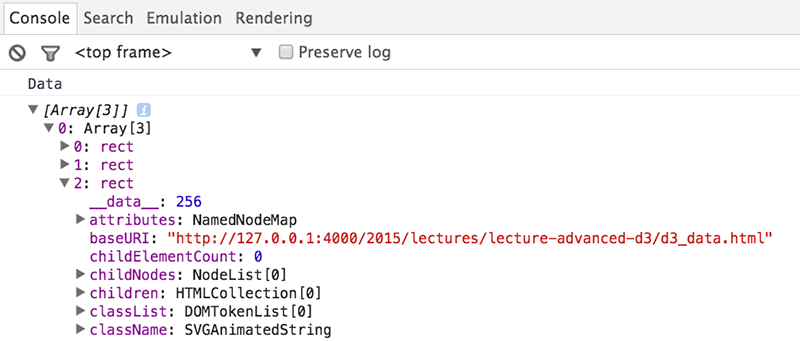
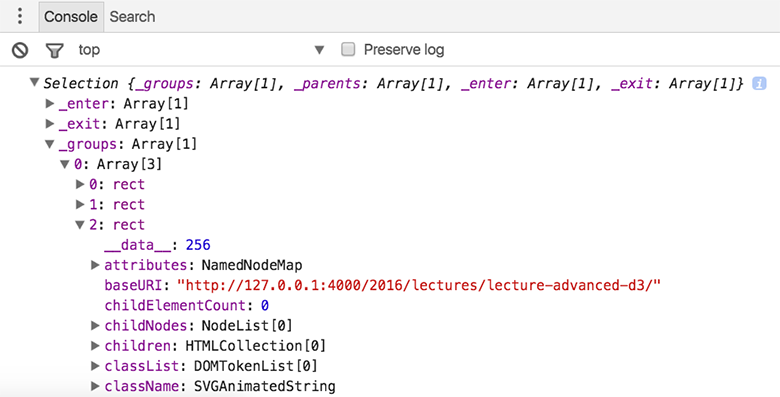
Site updated at 2016-09-05 23:47:37 UTC: 16f53f3 Mon Sep 5 17:44:26 2016 -0600 Alexander: updates to enter/append

Changed region(s): [[0.0, 0.0, 0.9846, 0.9971]]

diff --git a/2016/lectures/lecture-advanced-d3/index.html b/2016/lectures/lecture-advanced-d3/index.html
@@ -184,7 +184,7 @@
                 var previewFrame = document.getElementById('preview-' + id);
                 if (previewFrame) {
                     // here you can set the height, I delete it first, then I make it again
-                    //    previewFrame.height = "";
+                        previewFrame.height = "370px";
                     //  previewFrame.height = previewFrame.contentWindow.document.body.scrollHeight + "px";
 
 
@@ -285,7 +285,7 @@
 
 <h2 id="selections-and-data">Selections and Data</h2>
 
-<p>First, let’s go over how selections and data mapping works again. We talked about the selection methods <code>select()</code> and  <code>selectAll()</code>, that take CSS3 identifiers. That means that we can select on elements - <code>select("svg")</code>, classes - <code>selectAll(".className")</code>, IDs - <code>selectAll("#cancelButton")</code>, but also other selection expression such as parent child relationships - <code>selectAll("p &gt; span")</code>. Here is a simple example:</p>
+<p>First, let’s go over how selections and data mapping works again. We talked about the selection methods <code>select()</code> and  <code>selectAll()</code>, that take CSS selectors. That means that we can select on elements - <code>select("svg")</code>, classes - <code>selectAll(".className")</code>, IDs - <code>selectAll("#cancelButton")</code>, but also other selection expression such as parent child relationships - <code>selectAll("p &gt; span")</code>. Here is a simple example:</p>
 
 <html>
 
@@ -314,7 +314,7 @@
 <p>So, this is not new, but let’s take a look at the data structure the selection uses:</p>
 
 <p><img src="images/selection.png" alt="selection data structure" />
-The selections return an array of an array with all matching objects. You can also see that this is not actually the original array implementation, but instead a sub-class of array that exposes much of its functionality, but also overrides some of its methods. The <code>parentNode</code>, for example, isn’t part of the original array implementation, and we can see that the prototype of the object is set to <code>Array</code>. <br /><br /><br /><br /><br /><br /><br /><br /><br /></p>
+The selections returns a <code>Selection</code> object which contains (among other things) a <code>_groups</code> array, which contains a <code>NodeList</code>. In the <code>NodeList</code> we can see all the matching objects. You can also see that the <code>Selection</code> object has other fields, e.g., a list of <code>_parents</code>. <br /><br /><br /><br /><br /><br /><br /><br /></p>
 
 <h3 id="mapping-data">Mapping Data</h3>
 
@@ -345,9 +345,14 @@ The selections return an array of an array with all matching objects. You can al
 </html>
 
 <p><img src="images/data.png" alt="data assinged" />
-If we look at the properties of the array after we assigned the data, we can see a field <code>__data__</code> that holds the actual data values. We then can access these data values through the first parameter passed into a function <code>.attr("width", function (d, i) {return d;})</code>. The second parameter is the index of the current element, in the order of how they occur in the DOM.</p>
+If we look at the properties of the <code>Selection</code> object after we assigned the data we can see the distinct selections: <code>_enter</code> for all data items that didn’t match to a DOM element and are scheduled to be a
+dded, <code>_exit</code> for all DOM elements that didn’t map to a data item, and the familiar <code>_groups</code> for the updated selection. When we drill down to the <code>rect</code> DOM elements, we can see a field <code>__data__</code> that holds the actual data values. We then can access these data values through the first parameter passed into a function <code>.attr("width", function (d) {return d;})</code>. An optional second parameter is the index of the current element, in the order of how they occur in the DOM.</p>
 
-<p>Typically, we want to be able to create visualizations from skratch, i.e., we don’t want to select existing elements but add new ones. We can do this using the <code>enter</code> function:</p>
+<p>The following figure illustrates the differences between the enter, update and exit selection:</p>
+
+<p><img src="images/data_concept.png" alt="data_concept" /></p>
+
+<p>Typically, we want to be able to create visualizations from scratch, i.e., we don’t want to select existing elements but add new ones. We can do this by appending elements to the <code>enter</code> selection:</p>
 
 <html>
 
@@ -373,16 +378,17 @@ If we look at the properties of the array after we assigned the data, we can see
 
 </html>
 
-<p><img src="images/data_empty.png" alt="data assinged but still empty" />
-The selection right after the data assignment contains an uninitialized array of length 3. There’s nothing there, but we can use the <code>enter()</code> function of D3 to add elements. <br /><br /><br /><br /><br /><br /><br /><br />
-<img src="images/enter.png" alt="enter" />
-After <code>enter()</code> was called, the array contains objects with the <code>__data__</code> property set. Next we can use D3 functions, such as the <code>append()</code> to assign specific DOM elements to the arrays. Again, we only have to declare what we want to do once, and D3 will take care of the looping for you.  <br /><br /><br /><br /><br /><br /><br /><br /><br /><br /><br /><br /></p>
+<p>The enter selection right after the data assignment contains an array of length 3 with the generic <code>EnterNode</code> objects. We can see that the data is already bound to those objects.</p>
 
-<p>However, the things that we apply to the enter selection, <strong>do not apply to elements already in the slection</strong>. So, if we for example add a rectangle <code>&lt;rect x="0" y="10" height="10" width="50"&gt;&lt;/rect&gt;</code> to the above svg, we will see that the data is not applied to it.</p>
+<p><img src="images/enter_before_append.png" alt="Data assigned to placeholder nodes" /></p>
 
-<p>Here is an example that handles enter and update correctly:</p>
+<p>Next we can use the <code>append()</code> function to assign specific DOM elements to the elements in the selection. Again, we only have to declare what we want to do once, and D3 will take care of the looping for you.</p>
+
+<p>However, the things that we apply to the enter selection, <strong>do not apply to elements in the update selection</strong>. So, if we for example add a rectangle <code>&lt;rect x="0" y="10" height="10" width="50"&gt;&lt;/rect&gt;</code> to the above SVG, we will see that the data is not applied to it.</p>
 
 <h3 id="updating">Updating</h3>
+
+<p>Here is an example that handles enter and update correctly:</p>
 
 <html>
 

diff --git a/2016/lectures/lecture-advanced-d3/d3_enter.html b/2016/lectures/lecture-advanced-d3/d3_enter.html
@@ -14,25 +14,20 @@
 </head>
 <body>
 <svg height="300" width="800">
-
 </svg>
 </body>
 <script>
     var execute = function () {
-        var svg = d3.select("svg")
+        var svg = d3.select("svg");
         var selection = svg.selectAll("rect");
-        // here we have an empty selection
-        console.log("Selection")
-        console.log(selection);
-
-        // with the .data method we bind the data to the selection
         var data = selection.data([127, 61, 256]);
-        // here we have an array of length 3, the object has enter and exit functions
-        // we need to set a breakpoint after the log to see the content at this time.
+        // the resulting object contains the enter and exit selections
+        // since the initial selection is empty, all data elements are
+        // part of the enter selection
         console.log("Data");
         console.log(data);
 
-        // here we call the enter function to add new elements
+        // with a call to enter() we retreive only the enter selection
         var enter = data.enter();
         console.log("Enter")
         console.log(enter);

diff --git a/2016/lectures/lecture-advanced-d3/d3_data.html b/2016/lectures/lecture-advanced-d3/d3_data.html
@@ -21,10 +21,10 @@
 </body>
 <script>
     var execute = function () {
-        var svg = d3.select("svg")
+        var svg = d3.select("svg");
         var selection = svg.selectAll("rect");
         // The selection contains the three rectangles.
-        console.log("Selection")
+        console.log("Selection");
         console.log(selection);
 
         // with the .data method we bind the data to the selection
@@ -34,19 +34,17 @@
         console.log("Data");
         console.log(data);
 
-        // now we do something with the incoming selection
+        // now we do something with the selection
         data.attr("x", 0)
                 .attr("y", function (d, i) {
                     return i * 90 + 50
                 })
-                .attr("width", function (d, i) {
+                .attr("width", function (d) {
                     return d;
                 })
                 .attr("height", 20)
-                .style("fill", "steelblue")
-
+                .style("fill", "steelblue");
     }
 </script>
 <script src="run.js" charset="utf-8"></script>
-
 </html>

diff --git a/2016/tutorials/index.html b/2016/tutorials/index.html
@@ -143,14 +143,14 @@
 
 <h3 id="javascript">Javascript</h3>
 <ul>
-  <li><a href="../lectures/lecture-javascript/">Interactive JavaScript Introduction</a></li>
+  <li><a href="../lectures/lecture-javascript/">JavaScript Introduction</a></li>
 </ul>
 
 <h3 id="advanced-js-and-d3">Advanced JS and D3</h3>
 <ul>
-  <li><a href="../lectures/lecture-d3/">Interactive DOM Manipulation &amp; D3</a></li>
-  <li><a href="../lectures/lecture-advanced-d3/">Advanced D3 I</a></li>
-  <li><a href="../lectures/lecture-d3-layouts-maps/">Advanced D3 II</a></li>
+  <li><a href="../lectures/lecture-d3/">Interactive DOM Manipulation using the standard API; First steps in D3</a></li>
+  <li><a href="../lectures/lecture-advanced-d3/">D3: More on selections and data; scales; axis.</a></li>
+  <li><a href="../lectures/lecture-d3-layouts-maps/">D3: Layouts and Maps</a></li>
 </ul>
 
 

diff --git a/2016/lectures/lecture-d3-layouts-maps/index.html b/2016/lectures/lecture-d3-layouts-maps/index.html
@@ -184,7 +184,7 @@
                 var previewFrame = document.getElementById('preview-' + id);
                 if (previewFrame) {
                     // here you can set the height, I delete it first, then I make it again
-                    //    previewFrame.height = "";
+                        previewFrame.height = "370px";
                     //  previewFrame.height = previewFrame.contentWindow.document.body.scrollHeight + "px";
 
 

diff --git a/2016/lectures/lecture-d3/index.html b/2016/lectures/lecture-d3/index.html
@@ -184,7 +184,7 @@
                 var previewFrame = document.getElementById('preview-' + id);
                 if (previewFrame) {
                     // here you can set the height, I delete it first, then I make it again
-                    //    previewFrame.height = "";
+                        previewFrame.height = "370px";
                     //  previewFrame.height = previewFrame.contentWindow.document.body.scrollHeight + "px";
 
 

diff --git a/2016/lectures/lecture-html/index.html b/2016/lectures/lecture-html/index.html
@@ -184,7 +184,7 @@
                 var previewFrame = document.getElementById('preview-' + id);
                 if (previewFrame) {
                     // here you can set the height, I delete it first, then I make it again
-                    //    previewFrame.height = "";
+                        previewFrame.height = "370px";
                     //  previewFrame.height = previewFrame.contentWindow.document.body.scrollHeight + "px";
 
 

diff --git a/2016/lectures/lecture-javascript/index.html b/2016/lectures/lecture-javascript/index.html
@@ -184,7 +184,7 @@
                 var previewFrame = document.getElementById('preview-' + id);
                 if (previewFrame) {
                     // here you can set the height, I delete it first, then I make it again
-                    //    previewFrame.height = "";
+                        previewFrame.height = "370px";
                     //  previewFrame.height = previewFrame.contentWindow.document.body.scrollHeight + "px";
 
 
